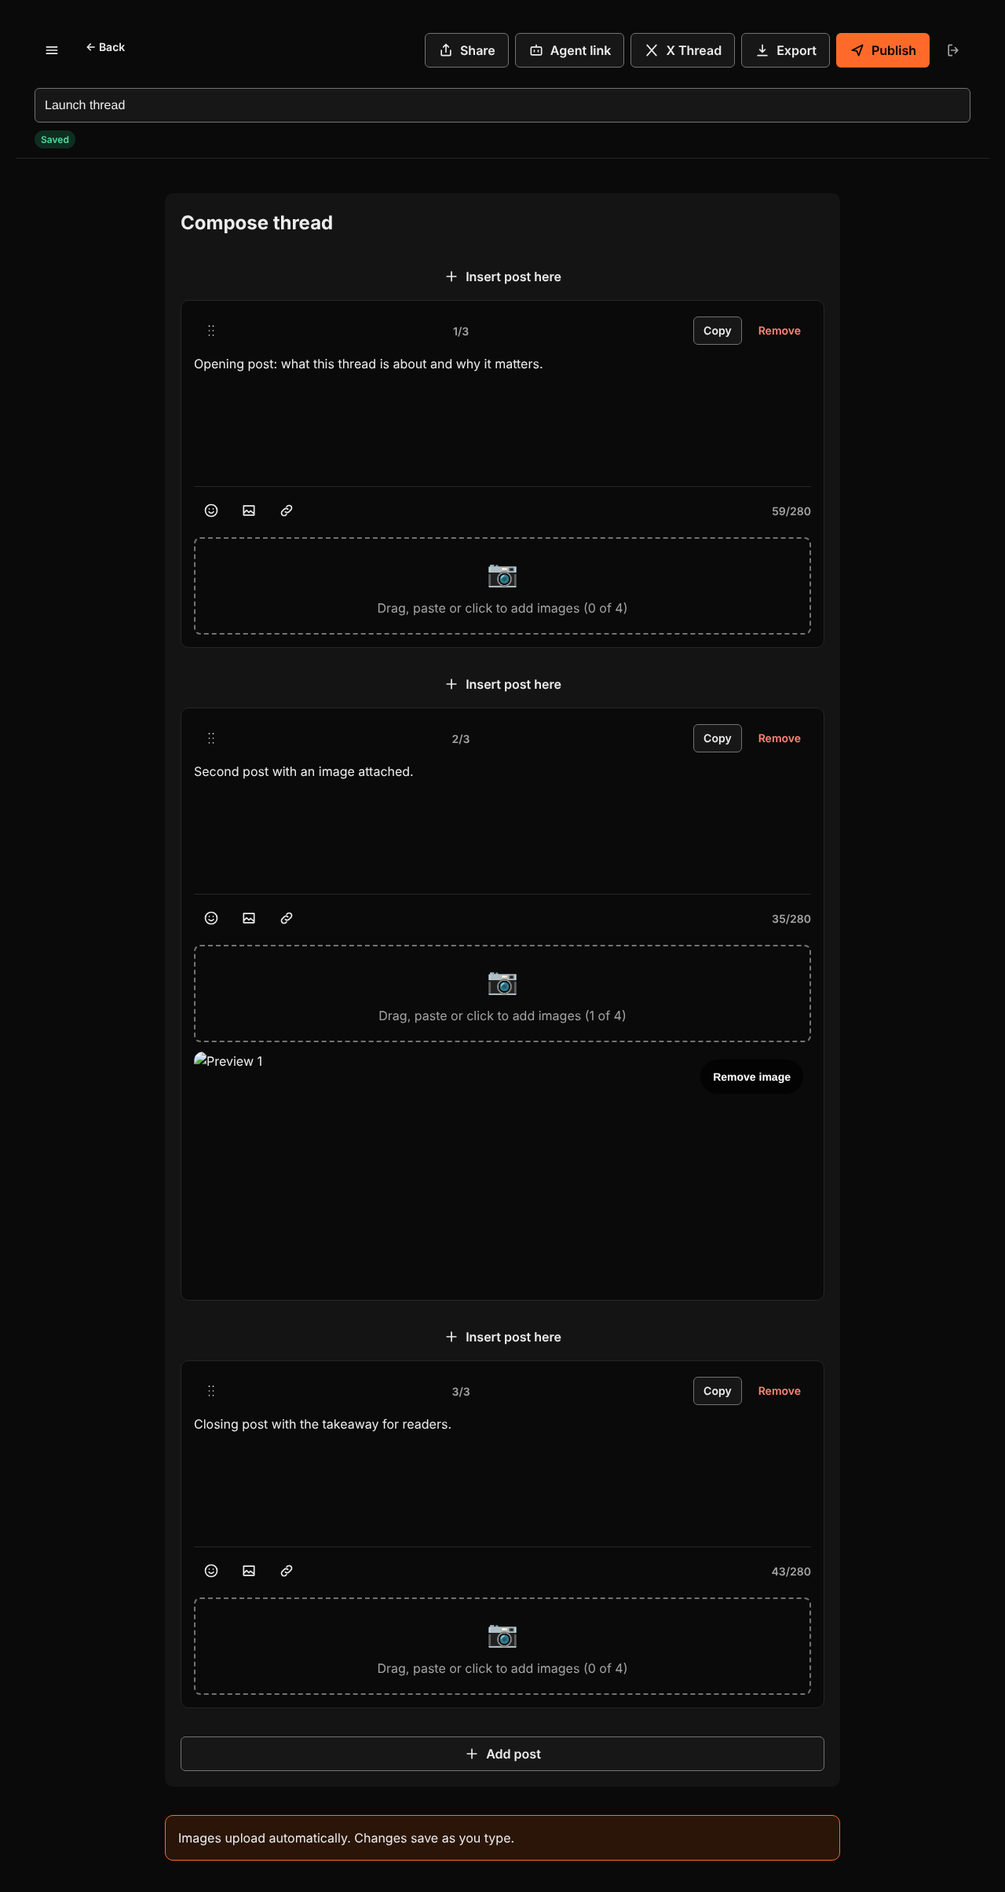
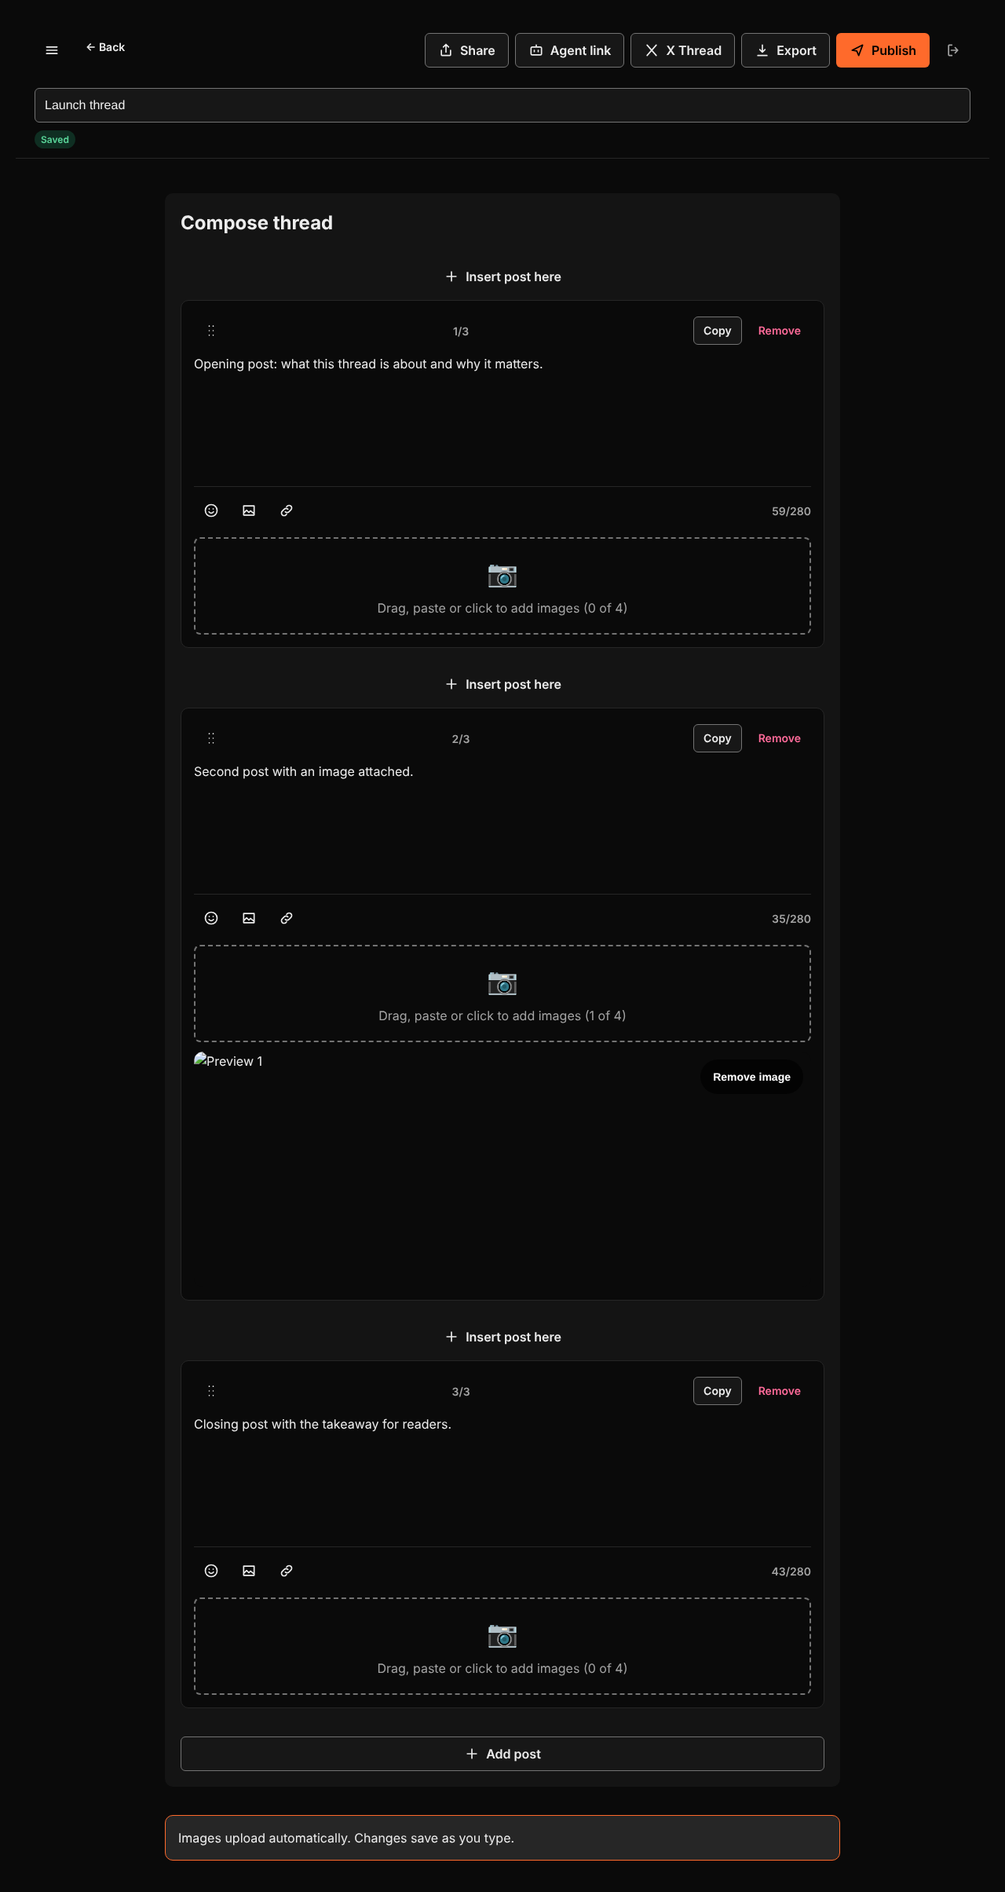
fix: Rare look review items (D1, #406)
Accent clear of danger red, contrast test guards and exact override list,
licence wording, UI audit for the flags page and the Rare look, skin storage edge case,
before/after screenshots.

Implements #273 Task D1 (build)

Claude-Session: https://claude.ai/code/session_01UU4t2EyRNsMKPTSJkXwzQW

Changed region(s): [[0.1562, 0.934, 0.8438, 0.9963]]

diff --git a/tests/e2e/ui-audit.spec.ts b/tests/e2e/ui-audit.spec.ts
@@ -15,8 +15,9 @@ const OUT = path.join('test-results', 'ui-audit')
 
 // Pages under audit. A page joins when its migration PR lands (plan section 5, rules for every migration PR).
 // `drafts` are seeded for that page's user (the draft list with rows, one Hebrew title for the RTL pass).
-const MIGRATED: { name: string; path: string; drafts?: Seed[]; menu?: boolean }[] = [
+const MIGRATED: { name: string; path: string; drafts?: Seed[]; menu?: boolean; skin?: 'rare' }[] = [
   { name: 'about', path: '/about' },
+  { name: 'flags', path: '/settings/flags' },
   { name: 'changelog', path: '/changelog' },
   { name: 'tokens', path: '/settings/tokens' },
   { name: 'apps', path: '/settings/apps' },
@@ -44,6 +45,31 @@ const MIGRATED: { name: string; path: string; drafts?: Seed[]; menu?: boolean }[
     ]
   },
   // The same page with the menu drawer open.
+  // The optional Rare UI look (feature flag, #406): the same checks with xt-skin=rare on the new page and two main pages.
+  { name: 'flags-rare', path: '/settings/flags', skin: 'rare' },
+  {
+    name: 'drafts-rare',
+    path: '/',
+    skin: 'rare',
+    drafts: [
+      { title: 'שרשור לדוגמה', posts: [{ id: 'h1', text: 'טקסט בעברית', images: [], embeddedTweet: null }] },
+      { title: 'Second thread', posts: [{ id: 'e1', text: 'Some text', images: [], embeddedTweet: null }] }
+    ]
+  },
+  {
+    name: 'editor-rare',
+    path: '/draft/:first',
+    skin: 'rare',
+    drafts: [
+      {
+        title: 'Editor audit',
+        posts: [
+          { id: 'a1', text: 'First post, in English.', images: [], embeddedTweet: null },
+          { id: 'a2', text: 'פוסט שני בעברית', images: [], embeddedTweet: null }
+        ]
+      }
+    ]
+  },
   {
     name: 'drafts-menu',
     path: '/',
@@ -65,6 +91,8 @@ const AXE_TAGS = ['wcag2a', 'wcag2aa', 'wcag21aa', 'wcag22aa']
 const FONT_PX = [12, 14, 16, 18, 20, 24, 28]
 const SPACE_PX = [0, 4, 8, 12, 16, 20, 24, 32, 40, 48, 64]
 const RADIUS_PX = [0, 6, 10, 14, 20, 999]
+// The Rare UI look (feature flag) has one extra radius: --radius-sm is 4 px there (6, 10 and 14 are on the default scale too).
+const RADIUS_PX_RARE = [...RADIUS_PX, 4]
 
 // Every colour token name in tokens.css (read once; the colour values come from the page through a probe element).
 const TOKEN_COLOURS = [...new Set([...readFileSync(path.join('src', 'styles', 'tokens.css'), 'utf8').matchAll(/--color-[\w-]+(?=:)/g)].map((m) => m[0]))]
@@ -103,7 +131,7 @@ async function devToken(request: APIRequestContext, login: string, admin = false
 }
 
 type Seed = { title: string; posts: unknown[] }
-async function openPage(browser: Browser, request: APIRequestContext, pagePath: string, c: (typeof CASES)[number], extra: { heading?: string; drafts?: Seed[]; menu?: boolean } = {}) {
+async function openPage(browser: Browser, request: APIRequestContext, pagePath: string, c: (typeof CASES)[number], extra: { heading?: string; drafts?: Seed[]; menu?: boolean; skin?: 'rare' } = {}) {
   const phone = c.width < 800
   const context: BrowserContext = await browser.newContext({
     viewport: { width: c.width, height: phone ? 844 : 800 },
@@ -131,6 +159,7 @@ async function openPage(browser: Browser, request: APIRequestContext, pagePath: 
   }
   const page = await context.newPage()
   await page.addInitScript((value) => localStorage.setItem('xt-theme', value), c.theme)
+  if (extra.skin) await page.addInitScript((value) => localStorage.setItem('xt-skin', value), extra.skin)
   await page.goto(`${BASE}${pagePath.replace(':first', firstDraftId)}`, { waitUntil: 'networkidle' })
   await expect(extra.heading ? page.getByRole('heading', { name: extra.heading, level: 1 }) : page.getByRole('heading', { level: 1 })).toBeVisible()
   await expect(page.getByText('Loading…')).toHaveCount(0)
@@ -164,7 +193,7 @@ async function smallTargets(page: Page): Promise<string[]> {
 }
 
 // Every ui- element: type, radius and space on their scales; colours equal a --color token of this theme, or transparent.
-async function scaleAndColourProblems(page: Page, scope = '[class*="ui-"]'): Promise<string[]> {
+async function scaleAndColourProblems(page: Page, scope = '[class*="ui-"]', radii = RADIUS_PX): Promise<string[]> {
   return page.evaluate(
     ({ names, font, space, radius, scope }: { names: string[]; font: number[]; space: number[]; radius: number[]; scope: string }) => {
       // Resolves each colour token through the page's current theme (light-dark() depends on color-scheme).
@@ -206,7 +235,7 @@ async function scaleAndColourProblems(page: Page, scope = '[class*="ui-"]'): Pro
       }
       return problems
     },
-    { names: TOKEN_COLOURS, font: FONT_PX, space: SPACE_PX, radius: RADIUS_PX, scope }
+    { names: TOKEN_COLOURS, font: FONT_PX, space: SPACE_PX, radius: radii, scope }
   )
 }
 
@@ -217,7 +246,7 @@ test.describe('UI audit', () => {
   for (const pageInfo of MIGRATED) {
     for (const c of CASES) {
       test(`${pageInfo.name} at ${c.name}`, async ({ browser, request }) => {
-        const { context, page } = await openPage(browser, request, pageInfo.path, c, { drafts: pageInfo.drafts, menu: pageInfo.menu })
+        const { context, page } = await openPage(browser, request, pageInfo.path, c, { drafts: pageInfo.drafts, menu: pageInfo.menu, skin: pageInfo.skin })
         try {
           // No horizontal scroll (plan: scrollWidth <= innerWidth).
           const widths = await page.evaluate(() => ({ scroll: document.documentElement.scrollWidth, inner: window.innerWidth }))
@@ -231,7 +260,7 @@ test.describe('UI audit', () => {
             expect(await smallTargets(page), 'targets under 44 x 44').toEqual([])
           }
 
-          expect(await scaleAndColourProblems(page), 'ui- elements off the scale or the theme colours').toEqual([])
+          expect(await scaleAndColourProblems(page, undefined, pageInfo.skin ? RADIUS_PX_RARE : RADIUS_PX), 'ui- elements off the scale or the theme colours').toEqual([])
 
           const axe = await new AxeBuilder({ page }).withTags(AXE_TAGS).disableRules(AXE_DISABLED).analyze()
           const serious = axe.violations

diff --git a/tests/unit/contrast.test.js b/tests/unit/contrast.test.js
@@ -33,8 +33,10 @@ function parseColours(css) {
 const SKIN_START = ":root[data-skin='rare'] {"
 const skinAt = tokensCss.indexOf(SKIN_START)
 const skinEnd = tokensCss.indexOf('\n}', skinAt)
+if (skinAt < 0 || skinEnd < skinAt) throw new Error('the rare skin block was not found in src/styles/tokens.css')
 const base = parseColours(tokensCss.slice(0, skinAt))
-const rareOverrides = parseColours(tokensCss.slice(skinAt, skinEnd))
+const rareBlock = tokensCss.slice(skinAt, skinEnd)
+const rareOverrides = parseColours(rareBlock)
 const THEMES = base.themes
 const notLightDark = base.plain
 const SKIN_THEMES = {
@@ -117,9 +119,50 @@ describe.each(Object.keys(SKIN_THEMES))('colour contrast, %s skin', (skin) => {
   })
 })
 
+// Hue (0 to 360) and saturation (0 to 1) of a hex colour.
+function hueSat(hex) {
+  const [r, g, b] = [1, 3, 5].map((i) => parseInt(hex.slice(i, i + 2), 16) / 255)
+  const max = Math.max(r, g, b)
+  const min = Math.min(r, g, b)
+  const d = max - min
+  if (d === 0) return { hue: 0, sat: 0 }
+  const hue = max === r ? ((g - b) / d) % 6 : max === g ? (b - r) / d + 2 : (r - g) / d + 4
+  return { hue: (hue * 60 + 360) % 360, sat: d / (1 - Math.abs(max + min - 1)) }
+}
+
 describe('rare skin overrides', () => {
-  it('only overrides tokens that exist in the default set, as light-dark() pairs', () => {
+  // The exact list, so a renamed or dropped override fails here instead of silently falling back to the default.
+  const OVERRIDDEN_COLOURS = [
+    'accent', 'accent-hover', 'accent-pressed', 'accent-soft', 'accent-soft-text', 'bg', 'border', 'border-soft',
+    'danger', 'danger-hover', 'focus', 'scrim', 'surface', 'surface-2', 'surface-raised', 'text', 'text-on-accent', 'text-soft'
+  ]
+
+  it('finds the skin block and overrides exactly the listed colours, as light-dark() pairs', () => {
+    expect(skinAt).toBeGreaterThan(0)
     expect(rareOverrides.plain).toEqual([])
-    for (const name of Object.keys(rareOverrides.themes.light)) expect(THEMES.light).toHaveProperty(name)
+    expect(Object.keys(rareOverrides.themes.light).sort()).toEqual([...OVERRIDDEN_COLOURS].sort())
+    for (const name of OVERRIDDEN_COLOURS) expect(THEMES.light).toHaveProperty(name)
+  })
+
+  it('overrides only custom properties that exist in the default set (colours, radii, shadows, easing)', () => {
+    const baseNames = new Set([...tokensCss.slice(0, skinAt).matchAll(/^\s*(--[\w-]+):/gm)].map((m) => m[1]))
+    const skinNames = [...rareBlock.matchAll(/^\s*(--[\w-]+):/gm)].map((m) => m[1])
+    expect(skinNames.length).toBeGreaterThan(OVERRIDDEN_COLOURS.length)
+    expect(skinNames.filter((name) => !baseNames.has(name))).toEqual([])
+  })
+
+  it('does not override any duration, so reduced motion keeps winning', () => {
+    expect(rareBlock).not.toMatch(/--(duration|press-scale)/)
+  })
+
+  it('keeps the accent a clearly different hue from danger (a destructive button never looks like the brand)', () => {
+    for (const theme of ['light', 'dark']) {
+      const colours = SKIN_THEMES.rare[theme]
+      const accent = hueSat(colours.accent)
+      const danger = hueSat(colours.danger)
+      if (accent.sat < 0.2) continue // a neutral accent cannot be confused with a hue
+      const gap = Math.abs(accent.hue - danger.hue)
+      expect(Math.min(gap, 360 - gap), `${theme}: accent ${colours.accent} against danger ${colours.danger}`).toBeGreaterThanOrEqual(30)
+    }
   })
 })

diff --git a/src/styles/tokens.css b/src/styles/tokens.css
@@ -142,9 +142,9 @@
 }
 
 /*
- * Skin "rare" (feature flag, Settings > Feature flags): the Rare UI look (orange accent, neutral greys, tighter corners).
- * It only overrides tokens, so every page and every ui/ component changes together. Colours not listed here (danger,
- * success, warning and their soft backgrounds) keep the default values. tests/unit/contrast.test.js checks every pair
+ * Skin "rare" (feature flag, Settings > Feature flags): the Rare UI look (black accent in light, orange in dark, neutral greys, tighter corners).
+ * It only overrides tokens, so every page and every ui/ component changes together. Colours not listed here (success,
+ * warning and the soft danger and warning backgrounds) keep the default values. tests/unit/contrast.test.js checks every pair
  * again for this skin. Durations are not overridden here: the reduced-motion block below must keep winning.
  */
 :root[data-skin='rare'] {
@@ -158,12 +158,15 @@
   --color-text-on-accent: light-dark(#ffffff, #000000);
   --color-border: light-dark(#737373, #737373);
   --color-border-soft: light-dark(#e5e5e5, #262626);
-  --color-accent: light-dark(#b93a0a, #ff6a2b);
-  --color-accent-hover: light-dark(#9a3412, #ff8a57);
-  --color-accent-pressed: light-dark(#7c2d12, #ffa77d);
-  --color-accent-soft: light-dark(#ffedd5, #2a1508);
-  --color-accent-soft-text: light-dark(#9a3412, #ffb48a);
-  --color-focus: light-dark(#b93a0a, #ff8a57);
+  --color-accent: light-dark(#171717, #ff6a2b);
+  --color-accent-hover: light-dark(#404040, #ff8a57);
+  --color-accent-pressed: light-dark(#525252, #ffa77d);
+  --color-accent-soft: light-dark(#ebebeb, #262626);
+  --color-accent-soft-text: light-dark(#171717, #ffb48a);
+  /* Danger moves toward crimson here so a destructive button never looks like the orange brand colour. */
+  --color-danger: light-dark(#b42318, #ff6b9a);
+  --color-danger-hover: light-dark(#912018, #ff94b8);
+  --color-focus: light-dark(#171717, #ff8a57);
 
   --radius-sm: 4px;
   --radius-md: 6px;

diff --git a/tests/e2e/screens.spec.ts b/tests/e2e/screens.spec.ts
@@ -7,7 +7,7 @@
 // twice, and the second request hits the one-use share link and gets 410.
 // Writes test-results/screens/<width>/<name>.png for 390 px and 1280 px wide:
 // login, login-suspended, drafts-empty, drafts-three, editor, editor-export-menu, editor-bar-hidden (phones only), preview, share, tokens, apps, changelog,
-// dialog-delete, dialog-revoke, toast-copied (plan U5), consent-signed-out and consent (the OAuth approval pages, plan T3).
+// flags (the Feature flags page, #406), dialog-delete, dialog-revoke, toast-copied (plan U5), consent-signed-out and consent (the OAuth approval pages, plan T3).
 // Under 800 px wide, each shot also writes <name>-viewport.png: what is on the screen, with the fixed bar.
 //
 // Signed-in pages use a dev API token (POST /api/dev/token), sent as a bearer header on /api calls.
@@ -272,6 +272,9 @@ test.describe('screens', () => {
       const appsReady = (p: Page) => p.getByRole('heading', { name: 'Connected apps', level: 1 })
       await shoot(browser, width, 'apps', '/settings/apps', { token: owner, ready: appsReady })
       await shoot(browser, width, 'apps-dark', '/settings/apps', { token: owner, theme: 'dark', ready: appsReady })
+      const flagsReady = (p: Page) => p.getByRole('heading', { name: 'Feature flags', level: 1 })
+      await shoot(browser, width, 'flags', '/settings/flags', { token: owner, ready: flagsReady })
+      await shoot(browser, width, 'flags-dark', '/settings/flags', { token: owner, theme: 'dark', ready: flagsReady })
 
       // The changelog page (settings-menu.md Task 6): light at both widths, dark on phones.
       const changelogReady = (p: Page) => p.locator('article').first()

diff --git a/src/utils/skin.js b/src/utils/skin.js
@@ -5,7 +5,7 @@
 export const SKIN_KEY = 'xt-skin'
 export const SKINS = ['default', 'rare']
 
-// The last choice made in this page. Used when storage is blocked, so the session keeps the choice.
+// Set only when storage refused the last write: this page's choice then wins over an older stored value.
 let sessionSkin = null
 
 function readStored() {
@@ -16,13 +16,11 @@ function readStored() {
   }
 }
 
-/** The saved choice, or 'default' when nothing valid is stored. */
+/** The current choice, or 'default' when nothing valid is stored. */
 export function getSkin() {
+  if (SKINS.includes(sessionSkin)) return sessionSkin
   const stored = readStored()
-  if (SKINS.includes(stored)) return stored
-  // Nothing stored (or storage blocked): use this page's last choice. A stored value we do not know means 'default'.
-  if (stored === null && SKINS.includes(sessionSkin)) return sessionSkin
-  return 'default'
+  return SKINS.includes(stored) ? stored : 'default'
 }
 
 /** Puts the skin on <html>. An unknown value falls back to 'default'. */
@@ -35,11 +33,12 @@ export function applySkin(value = getSkin()) {
 /** Saves and applies the choice. Returns the skin that is now active. */
 export function setSkin(value) {
   const skin = SKINS.includes(value) ? value : 'default'
-  sessionSkin = skin
   try {
     localStorage.setItem(SKIN_KEY, skin)
+    sessionSkin = null
   } catch {
-    // Storage can be blocked (private mode). The choice still applies for this page.
+    // Storage can be blocked (private mode, full). The choice still applies for this page.
+    sessionSkin = skin
   }
   return applySkin(skin)
 }

diff --git a/src/pages/FlagsPage.jsx b/src/pages/FlagsPage.jsx
@@ -9,7 +9,7 @@ import { getSkin, setSkin } from '../utils/skin'
 
 const LOOKS = [
   { value: 'default', label: 'Current look (purple)' },
-  { value: 'rare', label: 'Rare UI look (orange)' }
+  { value: 'rare', label: 'Rare UI look (black and orange)' }
 ]
 
 // Feature flags: switches that change what this browser shows. They are stored on this device only,
@@ -26,8 +26,13 @@ export default function FlagsPage() {
           <Stack gap={4}>
             <SegmentedControl legend="Look" value={look} options={LOOKS} onChange={choose} />
             <Banner tone="info" role="none">
-              The Rare UI look is inspired by the open-source <a href="https://rareui.com" target="_blank" rel="noreferrer">Rare UI</a>{' '}
-              project. Light, dark and Hebrew right-to-left layouts work in both looks.
+              <p>
+                No Rare UI code is used. The colours and corners are inspired by the{' '}
+                <a href="https://rareui.com" target="_blank" rel="noreferrer">
+                  Rare UI
+                </a>{' '}
+                project, linked here as credit. Light, dark and Hebrew right-to-left layouts work in both looks.
+              </p>
             </Banner>
           </Stack>
         </Section>

diff --git a/tests/unit/skin.test.js b/tests/unit/skin.test.js
@@ -35,16 +35,21 @@ describe('skin (look feature flag)', () => {
     expect(document.documentElement.dataset.skin).toBe('default')
   })
 
-  it('keeps the choice for the page when storage is blocked', () => {
+  it('keeps the choice for the page when storage is blocked, even over an older stored value', () => {
+    localStorage.setItem(SKIN_KEY, 'rare')
     const real = Storage.prototype.setItem
     Storage.prototype.setItem = () => {
       throw new Error('blocked')
     }
     try {
-      expect(setSkin('rare')).toBe('rare')
+      expect(setSkin('default')).toBe('default')
+      expect(getSkin()).toBe('default')
     } finally {
       Storage.prototype.setItem = real
     }
-    expect(document.documentElement.dataset.skin).toBe('rare')
+    expect(document.documentElement.dataset.skin).toBe('default')
+    // The next write that works clears the page-only choice, so later tests start clean.
+    setSkin('default')
+    expect(getSkin()).toBe('default')
   })
 })

diff --git a/tests/unit/FlagsPage.test.jsx b/tests/unit/FlagsPage.test.jsx
@@ -32,9 +32,9 @@ describe('FlagsPage', () => {
         <FlagsPage />
       </MemoryRouter>
     )
-    await user.click(screen.getByRole('radio', { name: 'Rare UI look (orange)' }))
+    await user.click(screen.getByRole('radio', { name: 'Rare UI look (black and orange)' }))
     expect(document.documentElement.dataset.skin).toBe('rare')
     expect(localStorage.getItem(SKIN_KEY)).toBe('rare')
-    expect(screen.getByRole('radio', { name: 'Rare UI look (orange)' }).checked).toBe(true)
+    expect(screen.getByRole('radio', { name: 'Rare UI look (black and orange)' }).checked).toBe(true)
   })
 })

diff --git a/docs/features/platform-and-auth.md b/docs/features/platform-and-auth.md
@@ -7,7 +7,7 @@
 - Owner-only writes are filtered by the session user id in every query; a non-owner gets 404.
 - Deployment metadata visibility.
 - API tokens page (`/settings/tokens`): create and revoke tokens.
-- Feature flags page (`/settings/flags`, in the menu): a per-device switch between the current purple look and the Rare UI look (#406). It sets `data-skin` on `<html>` from `xt-skin` in localStorage; `src/styles/tokens.css` overrides tokens only, so every page and `src/ui/` component follows. Colour contrast is tested for both looks. Credit: the Rare UI look is inspired by the open-source Rare UI project (https://rareui.com), whose licence asks for a visible link, so the page shows one.
+- Feature flags page (`/settings/flags`, in the menu): a per-device switch between the current purple look and the Rare UI look (#406, approved by Shaked 2026-11-25). It sets `data-skin` on `<html>` from `xt-skin` in localStorage; `src/styles/tokens.css` overrides tokens only, so every page and `src/ui/` component follows. Colour contrast is tested for both looks. No Rare UI code is used (its licence, MIT with Commons Clause and an attribution clause, would require a visible credit link if code were copied); the colours are inspired by it and the page links to it as credit.
 - Connected apps page (`/settings/apps`): "Connect an AI app" lists the four clients with copy buttons; "Connected apps" lists and revokes them.
 - Suspension: a suspended account is refused on every sign-in path (cookie, `xt_` and `xta_` tokens, MCP, the OAuth token endpoint, device sign-in, the GitHub callback, the CI identity). The API answers 403 "This account is suspended."; the app shows that notice above the sign-in button (`/?suspended=1`); share links of the account's drafts answer 410 and are not used up. Nothing is deleted, and everything works again after the suspension is lifted.
 - MCP connector at `/api/mcp` (OAuth 2.1 with PKCE, rotating refresh tokens). Setup and tools: [docs/agents/mcp.md](../agents/mcp.md).

diff --git a/docs/plans/ui-design-system.md b/docs/plans/ui-design-system.md
@@ -105,7 +105,7 @@ Decisions (planner):
   and `index.html` already set). This removes today's three copies. `light-dark()` is in Chrome 123, Firefox 120 and
   Safari 17.5 (from their release notes; not checked again in this session). Checked here: the pre-installed Chromium
   (`/opt/pw-browsers/chromium-1243`) resolves it; the mock-up screenshots are rendered with it.
-- **Contrast** (all 102 pairs pass, 51 per theme; lowest 4.83:1 for text, success on `surface-2`, and 3.11:1 for a
+- **Contrast** (all 102 pairs pass, 51 per theme, and the same 102 for the optional Rare UI skin of #406; lowest 4.83:1 for text, success on `surface-2`, and 3.11:1 for a
   border on `surface-2`): text, soft text, accent, danger, success and warning on every surface; text on accent, on
   danger and on each soft background; borders and the focus ring at 3:1. The pair list is in section 6.
 - **No web font.** The system font stack stays (fast, offline-safe PWA, no third-party request). Hebrew gets

diff --git a/docs/changelogs/20261125-223300-feature-flags-rare-look.md b/docs/changelogs/20261125-223300-feature-flags-rare-look.md
@@ -1,8 +1,8 @@
 # Try a new look from Feature flags
 
-- A new Feature flags page in the menu lets you switch every page to the Rare UI look (orange accent, tighter corners).
+- A new Feature flags page in the menu lets you switch every page to the Rare UI look (black and orange, tighter corners).
 - The choice stays on this device only, so you can compare both looks and decide.
 - Light, dark and Hebrew right-to-left work in both looks.
 
 Area: Design
-Link: https://github.com/Shaked/x-thread-draft-tool/issues/406
+Link: https://github.com/Shaked/x-thread-draft-tool/pull/455
